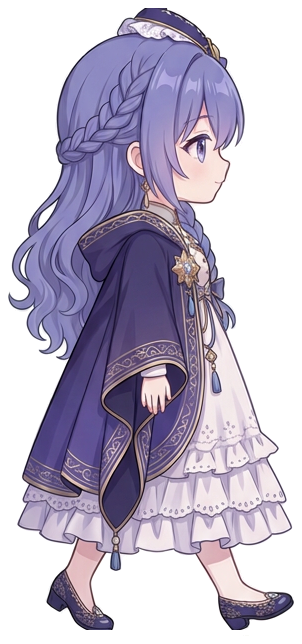
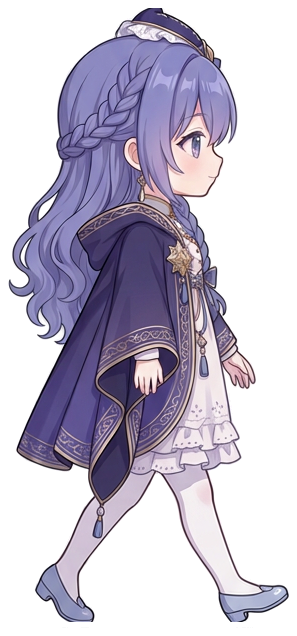
qwen 走路重画：裙摆提起来露腿，8 帧四相位拉开 + 预览加循环 WebP
- qwen 两张四格图重画：裙摆缩到膝盖以上、斗篷向后掀，白裤袜+浅蓝鞋完整露出；
  四相位（跨步/后蹬/并腿过渡/前伸）幅度拉开，不再是原地的样子
- b 张以 a 张为参考重出，鞋和裤袜颜色锁定一致（否则第 5 帧鞋会变黑）
- render_walk_clips.py 增加 <char>_cycle.webp（全彩动画 WebP，浏览器直接播）
  和 walk_all9_cycle.webp（3×3 全员同步循环）
- 指标表重建，engine 测试 65/65

diff --git a/tools/remotion-engine/render_walk_clips.py b/tools/remotion-engine/render_walk_clips.py
@@ -206,6 +206,38 @@ def render_cycle(char, atlas_name, zoom=2):
     out = os.path.join(OUT, '%s_cycle.png' % char)
     frames[0].save(out, save_all=True, append_images=frames[1:],
                    duration=FRAME_MS, loop=0, optimize=True)
+    # 同一段循环再出一份动画 WebP：全彩、体积只有 APNG 的十分之一，浏览器直接能播
+    webp = os.path.join(OUT, '%s_cycle.webp' % char)
+    try:
+        frames[0].save(webp, save_all=True, append_images=frames[1:],
+                       duration=FRAME_MS, loop=0, quality=92, method=4)
+    except Exception as exc:      # 老 Pillow 没编 WebP 支持就跳过
+        print('skip webp', char, exc)
+    return out
+
+
+def render_all_cycle(names):
+    """3×3 汇总动画（WebP）：9 个角色同步循环，一眼看全体的迈步效果。"""
+    names = [n for n in names if n in CHARS][:9]
+    cols = 3
+    rows = (len(names) + cols - 1) // cols
+    frames = []
+    for f in range(8):
+        board = Image.new('RGB', (CELL_W * cols, CELL_H * rows), (16, 22, 38))
+        d = ImageDraw.Draw(board)
+        lab = font(14)
+        for idx, n in enumerate(names):
+            atlas = Image.open(os.path.join(ART, CHARS[n] + '.png')).convert('RGBA')
+            cell = atlas.crop((f * CELL_W, 0, (f + 1) * CELL_W, CELL_H))
+            cx = (idx % cols) * CELL_W
+            cy = (idx // cols) * CELL_H
+            board.paste(cell, (cx, cy), cell)
+            d.rectangle([cx, cy, cx + 96, cy + 22], fill=(10, 16, 30))
+            d.text((cx + 6, cy + 4), n, fill=(150, 190, 240), font=lab)
+        frames.append(board)
+    out = os.path.join(OUT, 'walk_all9_cycle.webp')
+    frames[0].save(out, save_all=True, append_images=frames[1:],
+                   duration=FRAME_MS, loop=0, quality=92, method=4)
     return out
 
 
@@ -281,6 +313,8 @@ def main():
         entries.append((n, os.path.join(OUT, '%s_walk.gif' % n)))
     if entries:
         print('wrote', render_sheet(entries))
+        if not args.native_only:
+            print('wrote', render_all_cycle([e[0] for e in entries]))
 
 
 if __name__ == '__main__':
